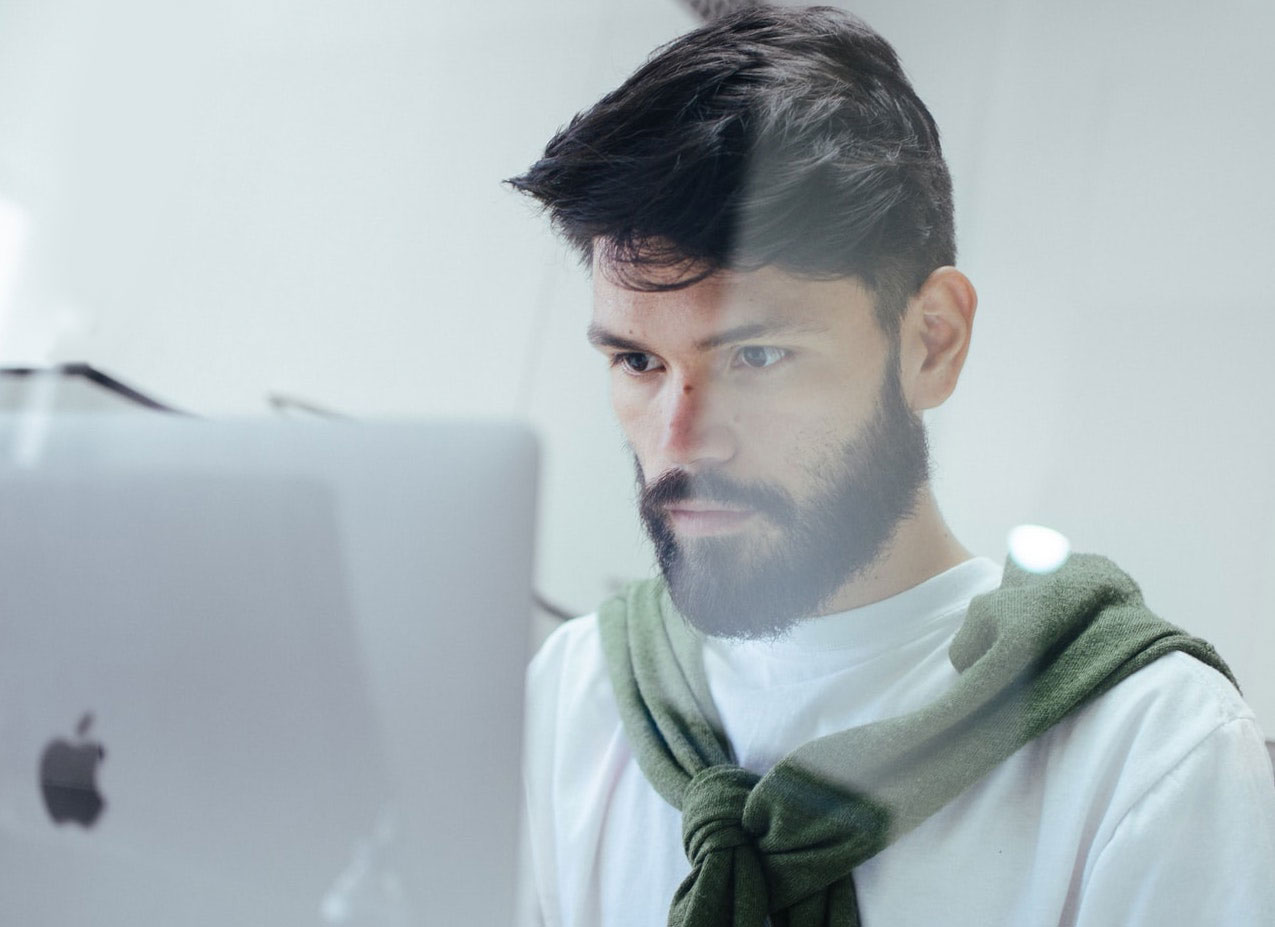
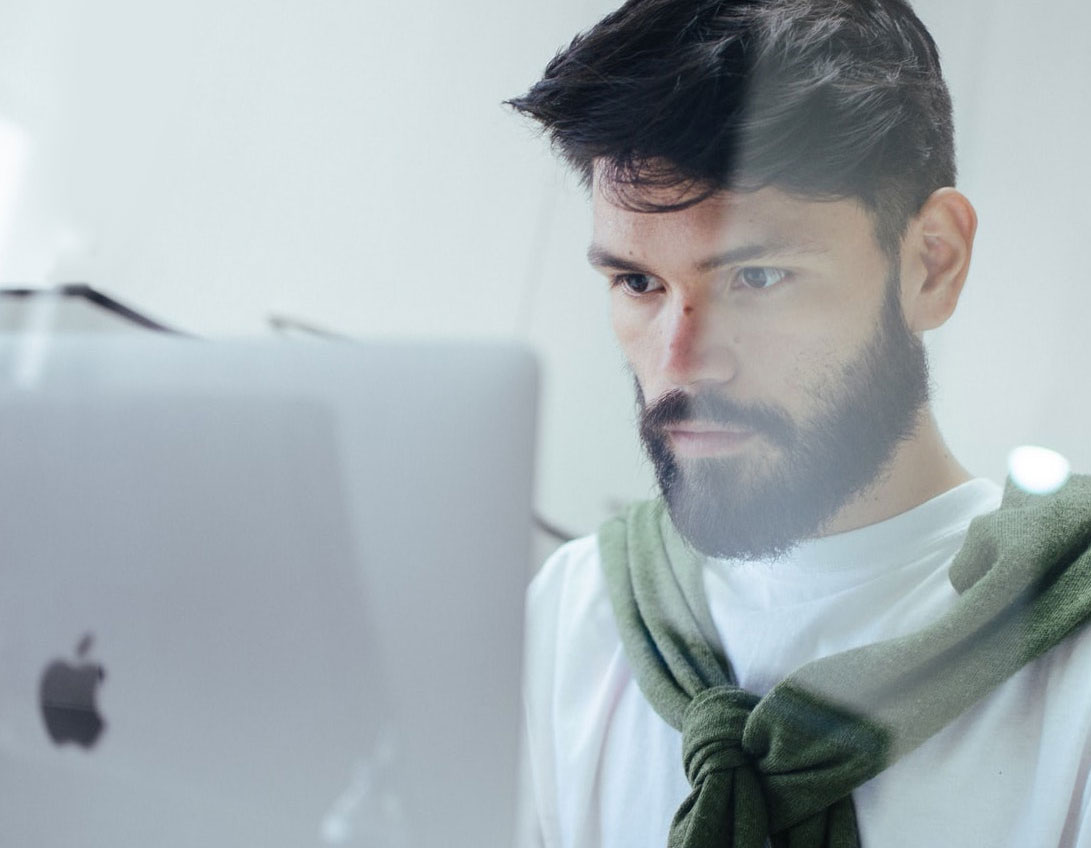
wip

diff --git a/index.html b/index.html
@@ -10,8 +10,8 @@ activeNav: 1
     <img src="assets/images/portrait-example.jpg" alt="">
   </div>
   <div class="heroContent">
-    <h1>Full Stack <br>Digital Designer</h1>
-    <h4><strong>Damir Kotorić brings digital products to life.</strong> Over a decade of global experience — startups to Fortune 500 — working at <a href="https://booking.com" target="_blank" rel="noopener">Booking.com</a> in Amsterdam, at <a href="https://envato.com" target="_blank" rel="noopener">Envato</a> in Melbourne, and with <a href="https://harvard.edu" target="_blank" rel="noopener">Harvard University</a> professors in the United States.</h4>
+    <h1>Damir <br>Kotorić</h1>
+    <h4><strong>Full stack designer who brings digital products to life.</strong> <br>Over a decade of global experience — startups to Fortune 500 — working at <a href="https://booking.com" target="_blank" rel="noopener">Booking.com</a> in Amsterdam, at <a href="https://envato.com" target="_blank" rel="noopener">Envato</a> in Melbourne, and with <a href="https://harvard.edu" target="_blank" rel="noopener">Harvard University</a> in the United States.</h4>
     <!-- <video src="https://storage.cloud.google.com/damirkotoric/damir-showreel.mp4" width="1920" height="1080" controls></video>
     <p>Designing for web, mobile, AR and VR, and across eCommerce, travel, finance, retail, creative, education and government, I'm tech and industry agnostic. Servicing a global clientele, I predominently work remotely.</p>
     <p>My philosophy is simple — I just focus on designing great digital products.</p> -->

diff --git a/_sass/modules/_hero.sass b/_sass/modules/_hero.sass
@@ -2,8 +2,8 @@
   position: relative
 
 .heroImage
-  background: $color_secondary_100
   bottom: 20px
+  display: block
   left: 20px
   position: absolute
   right: 20px
@@ -11,11 +11,22 @@
   z-index: 0
   img
     height: 100%
-    opacity: 0.6
+    opacity: 1
     max-height: 100%
     max-width: 100%
     object-fit: cover
     width: 100%
+  &::after
+    background: $color_secondary_200
+    background: linear-gradient(15deg, rgba($color_secondary_200, 1) 0%, rgba($color_secondary_200, 0) 65%, rgba($color_secondary_200, 0) 65%, rgba($color_secondary_200, 1) 100%)
+    content: ''
+    display: block
+    height: 100%
+    left: 0
+    position: absolute
+    top: 0
+    width: 100%
+    z-index: 2
 
 .heroContent
   +containerContent
@@ -25,11 +36,10 @@
   z-index: 1
 
   @media (min-width: $breakpoint_2)
-    // padding-bottom: 250px
-    padding-top: 70vh
+    padding-top: 55vh
   h1
     color: $color_grey_900
-    font-size: 120px
+    font-size: 130px
     margin-bottom: 40px
   h4
     color: $color_grey_600

diff --git a/_sass/modules/_header.sass b/_sass/modules/_header.sass
@@ -209,7 +209,7 @@ $menuItems: 6
   a
     display: block
     position: relative
-    color: $color_grey_500
+    color: $color_grey_600
     text-decoration: none
     font-size: 22px
     letter-spacing: 0.03em
